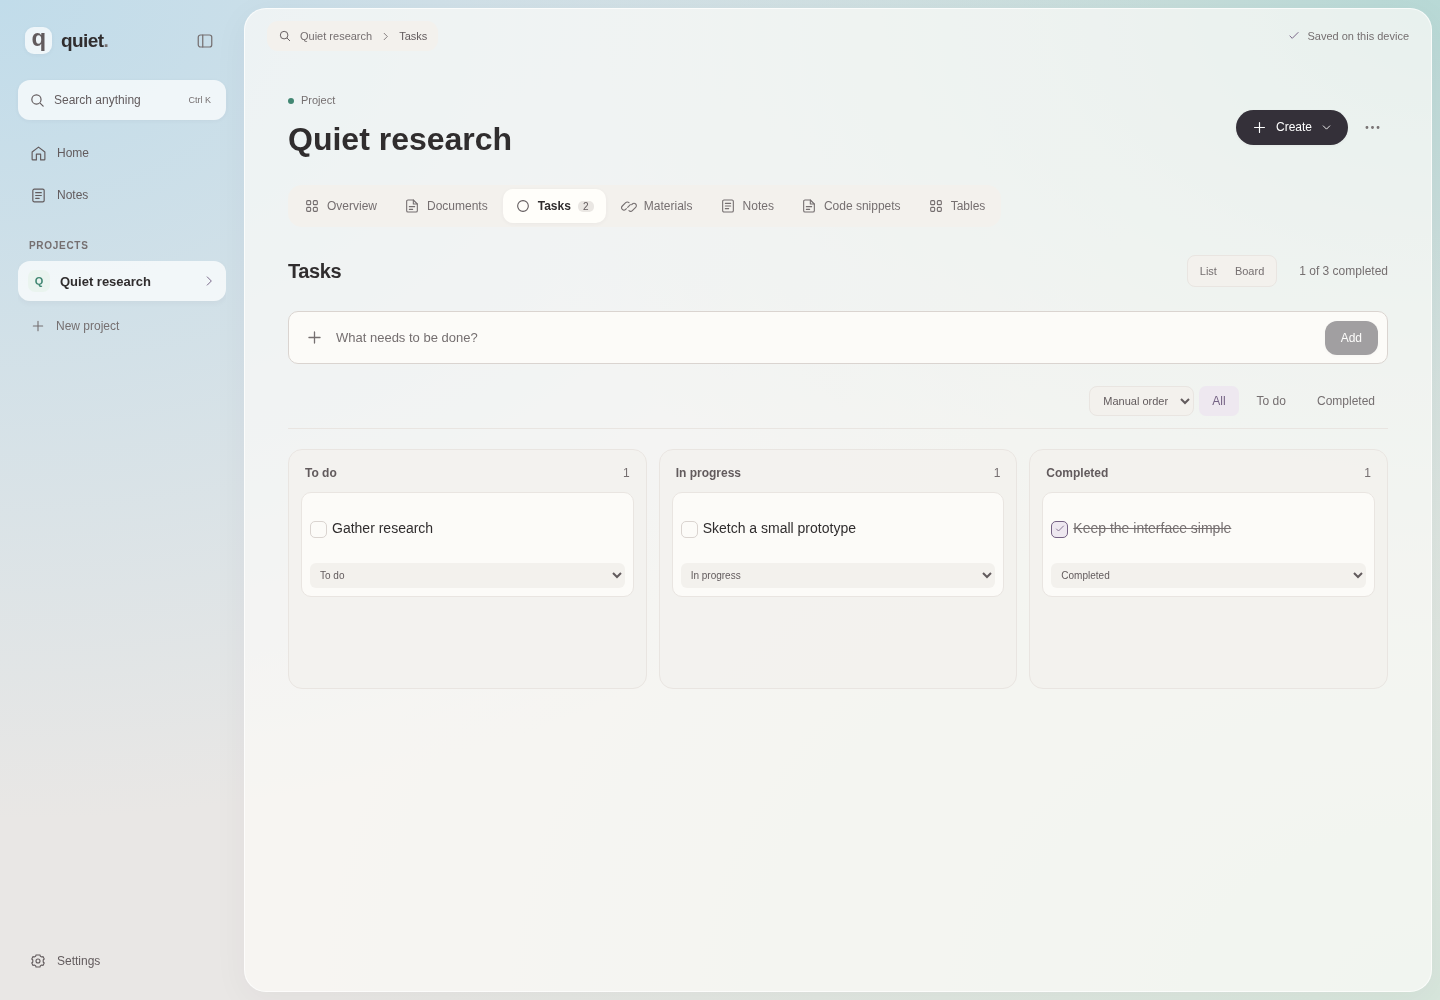
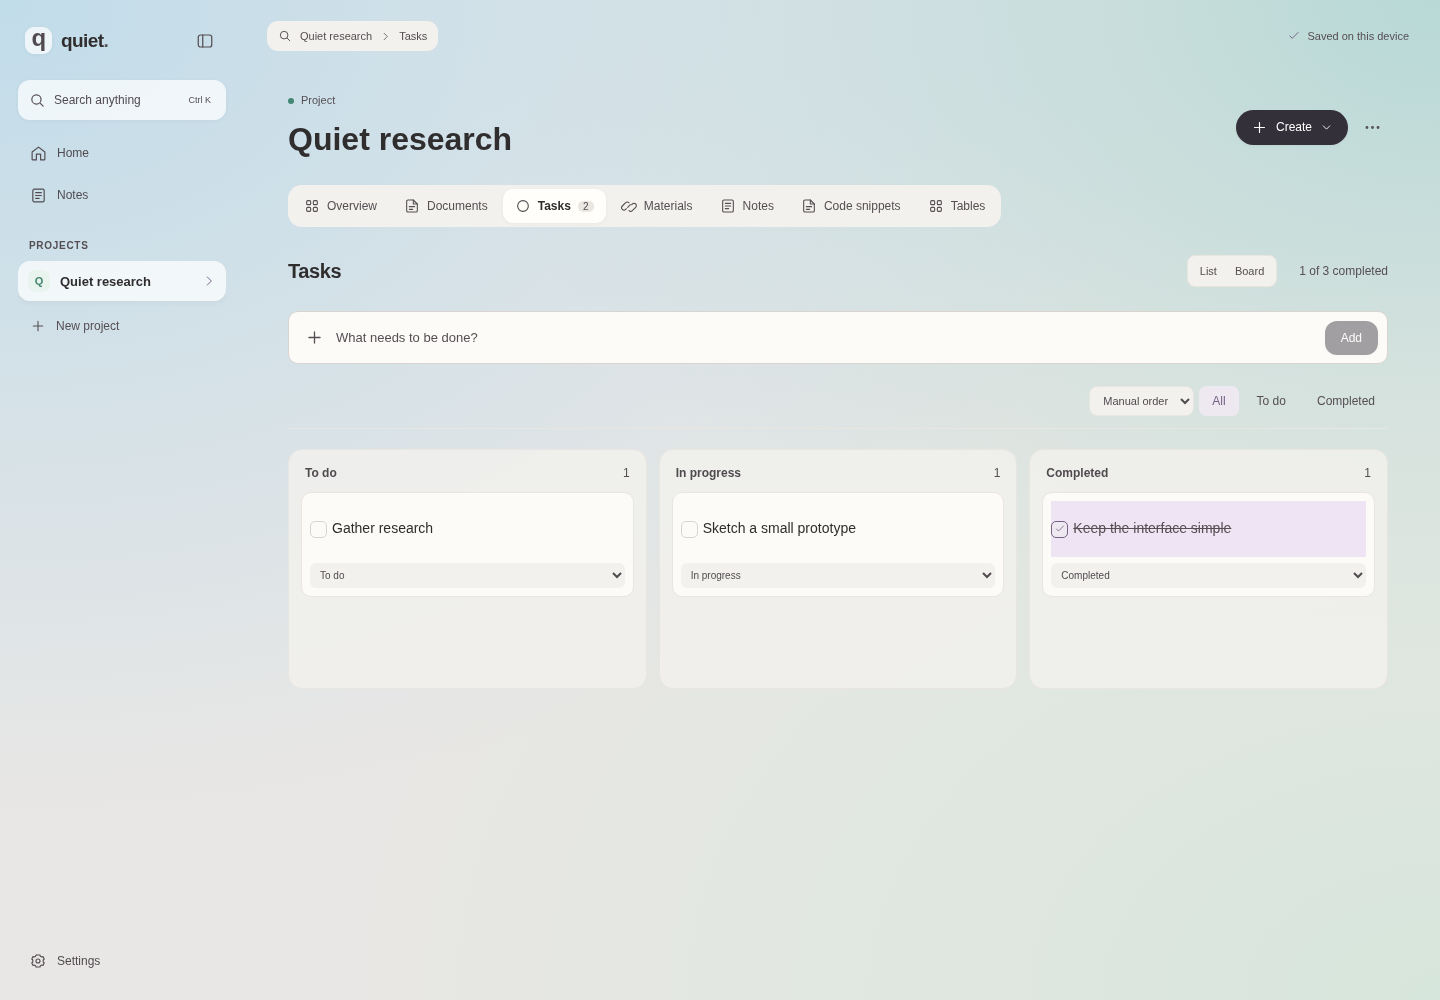
Use one uninterrupted window background with local reading surfaces

Changed region(s): [[0.1562, 0.0, 1.0, 0.496], [0.875, 0.868, 1.0, 0.992], [0.75, 0.527, 0.8438, 0.558]]

diff --git a/tests/background-canvas.spec.ts b/tests/background-canvas.spec.ts
@@ -1,0 +1,166 @@
+import { test, expect } from '@playwright/test';
+import type { Page } from '@playwright/test';
+
+async function settings(page: Page) {
+  if ((page.viewportSize()?.width ?? 1920) < 600)
+    await page.getByRole('button', { name: 'Open projects', exact: true }).click();
+  await page.getByRole('button', { name: 'Settings', exact: true }).click();
+}
+
+// Compare blank workspace pixels with the actual canvas underneath it. This catches
+// translucent fills, borders, shadows, and other layers that obscure the background.
+async function expectContinuousCanvas(page: Page) {
+  const size = page.viewportSize()!;
+  const frame = await page.locator('.workspace-area').boundingBox();
+  const points = [
+    { x: 1, y: 1 },
+    { x: size.width - 1, y: 1 },
+    { x: Math.ceil(frame!.x + 1), y: Math.floor(size.height * 0.8) },
+    { x: Math.floor(size.width * 0.55), y: Math.floor(size.height * 0.7) },
+    { x: Math.floor(size.width - 10), y: Math.floor(size.height * 0.8) },
+  ];
+  const visible = (await page.screenshot({ animations: 'disabled' })).toString('base64');
+  await page.locator('.workspace-area').evaluate((el) => {
+    el.style.visibility = 'hidden';
+  });
+  let canvas: string;
+  try {
+    canvas = (await page.screenshot({ animations: 'disabled' })).toString('base64');
+  } finally {
+    await page.locator('.workspace-area').evaluate((el) => el.style.removeProperty('visibility'));
+  }
+  const result = await page.evaluate(
+    async ({ visible, canvas, points }) => {
+      async function pixels(data: string) {
+        const blob = new Blob([Uint8Array.from(atob(data), (c) => c.charCodeAt(0))], {
+          type: 'image/png',
+        });
+        const image = await createImageBitmap(blob),
+          element = document.createElement('canvas');
+        element.width = image.width;
+        element.height = image.height;
+        const ctx = element.getContext('2d')!;
+        ctx.drawImage(image, 0, 0);
+        image.close();
+        return points.map((p) => [...ctx.getImageData(p.x, p.y, 1, 1).data]);
+      }
+      const label = document.createElement('span');
+      document.body.append(label);
+      const colors = ['--muted', '--text-secondary'].map((key) => {
+        label.style.color = `var(${key})`;
+        return getComputedStyle(label)
+          .color.match(/[\d.]+/g)!
+          .slice(0, 3)
+          .map(Number);
+      });
+      label.remove();
+      return { visible: await pixels(visible), canvas: await pixels(canvas), colors };
+    },
+    { visible, canvas: canvas!, points },
+  );
+  expect(result.visible).toEqual(result.canvas);
+  expect(new Set(result.canvas.map((pixel) => pixel.join(','))).size).toBeGreaterThan(1);
+  const lum = (rgb: number[]) =>
+    rgb
+      .slice(0, 3)
+      .map((v) => {
+        v /= 255;
+        return v <= 0.04045 ? v / 12.92 : ((v + 0.055) / 1.055) ** 2.4;
+      })
+      .reduce((sum, v, i) => sum + v * [0.2126, 0.7152, 0.0722][i], 0);
+  for (const color of result.colors)
+    for (const pixel of result.canvas) {
+      const a = lum(color),
+        b = lum(pixel);
+      expect(
+        (Math.max(a, b) + 0.05) / (Math.min(a, b) + 0.05),
+        JSON.stringify({ color, pixel }),
+      ).toBeGreaterThanOrEqual(4.5);
+    }
+}
+
+for (const theme of ['light', 'dark'] as const) {
+  test(`${theme}: all backgrounds cover Home continuously on desktop, compact rail and mobile`, async ({
+    page,
+  }) => {
+    test.setTimeout(90_000);
+    await page.addInitScript((theme) => {
+      localStorage.setItem('quiet.language', 'en');
+      localStorage.setItem('quiet.theme', theme);
+    }, theme);
+    await page.goto('/');
+    await settings(page);
+    await page
+      .getByRole('radio', { name: theme === 'dark' ? 'Dark' : 'Light', exact: true })
+      .check();
+    await page.getByRole('button', { name: 'Close', exact: true }).click();
+    for (const viewport of [
+      { width: 1920, height: 1008 },
+      { width: 390, height: 844 },
+    ]) {
+      await page.setViewportSize(viewport);
+      for (const background of ['Default', 'Dawn', 'Forest', 'Lavender', 'Ocean']) {
+        await settings(page);
+        await page.getByRole('radio', { name: background, exact: true }).check();
+        await page.getByRole('button', { name: 'Close', exact: true }).click();
+        await expectContinuousCanvas(page);
+        expect(await page.evaluate(() => document.documentElement.scrollWidth <= innerWidth)).toBe(
+          true,
+        );
+      }
+    }
+    await page.setViewportSize({ width: 1920, height: 1008 });
+    await page.getByRole('button', { name: 'Collapse sidebar', exact: true }).click();
+    await expectContinuousCanvas(page);
+  });
+}
+
+test('documents and notes retain readable local surfaces over the full background', async ({
+  page,
+}) => {
+  await page.addInitScript(() => localStorage.setItem('quiet.language', 'en'));
+  await page.goto('/');
+  await page.getByRole('button', { name: 'Create project', exact: true }).click();
+  await page.getByLabel('Project name', { exact: true }).fill('Reading');
+  await page
+    .getByRole('dialog')
+    .getByRole('button', { name: 'Create project', exact: true })
+    .click();
+  await page.getByRole('button', { name: /^Documents/ }).click();
+  await page.getByRole('button', { name: 'New document', exact: true }).click();
+  await page.getByRole('textbox', { name: 'Document content' }).fill('A readable document.');
+  const contrast = async (selector: string) =>
+    page.locator(selector).evaluate((el) => {
+      const s = getComputedStyle(el),
+        rgb = (value: string) =>
+          value
+            .match(/[\d.]+/g)!
+            .slice(0, 3)
+            .map(Number);
+      const lum = (color: number[]) =>
+        color
+          .map((v) => {
+            v /= 255;
+            return v <= 0.04045 ? v / 12.92 : ((v + 0.055) / 1.055) ** 2.4;
+          })
+          .reduce((sum, v, i) => sum + v * [0.2126, 0.7152, 0.0722][i], 0);
+      const a = lum(rgb(s.color)),
+        b = lum(rgb(s.backgroundColor));
+      return {
+        background: s.backgroundColor,
+        ratio: (Math.max(a, b) + 0.05) / (Math.min(a, b) + 0.05),
+      };
+    });
+  for (const theme of ['Light', 'Dark']) {
+    await settings(page);
+    await page.getByRole('radio', { name: theme, exact: true }).check();
+    await page.getByRole('button', { name: 'Close', exact: true }).click();
+    const style = await contrast('.rich-content');
+    expect(style.background).not.toBe('rgba(0, 0, 0, 0)');
+    expect(style.ratio).toBeGreaterThanOrEqual(4.5);
+  }
+  await page.locator('.sidebar-nav').getByRole('button', { name: 'Notes', exact: true }).click();
+  await page.getByRole('button', { name: 'New note', exact: true }).click();
+  await page.getByRole('textbox', { name: 'Note content' }).fill('A readable note.');
+  expect((await contrast('.plain-note textarea')).ratio).toBeGreaterThanOrEqual(4.5);
+});

diff --git a/src/styles.css b/src/styles.css
@@ -13,8 +13,8 @@
   --surface-hover: #eae7e3;
   --surface-raised: #fffefa;
   --text: #302d2e;
-  --text-secondary: #625b5d;
-  --muted: #756f70;
+  --text-secondary: #514b50;
+  --muted: #554e53;
   --line: #e9e5e1;
   --line-strong: #dad4d0;
   --accent: #756284;
@@ -51,8 +51,8 @@
   --surface-hover: #37343d;
   --surface-raised: #2a282f;
   --text: #eee9e4;
-  --text-secondary: #c4bdba;
-  --muted: #aca3a2;
+  --text-secondary: #d0c6cd;
+  --muted: #bcb2b8;
   --line: #36323a;
   --line-strong: #48414b;
   --accent: #c6afd5;
@@ -424,10 +424,9 @@ kbd {
   min-width: 0;
   width: calc(100% - var(--sidebar-width) - 32px);
   min-height: calc(100dvh - 16px);
-  border: 1px solid var(--tab-surface);
+  border: 1px solid transparent;
   border-radius: 22px;
-  background: var(--surface);
-  box-shadow: 0 8px 35px var(--shadow);
+  background: transparent;
   overflow: clip;
   transition:
     margin-left 0.16s ease,
@@ -2885,10 +2884,6 @@ kbd {
   outline: none;
 }
 
-/* The canvas spans the window; translucent surfaces reveal it without live blur. */
-.workspace-area {
-  background: color-mix(in srgb, var(--surface) 70%, transparent);
-}
 .module-picker {
   border: 0;
   padding: 0;
@@ -3259,4 +3254,18 @@ kbd {
 }
 .board-card .task-stage {
   display: none;
+}
+
+/* One canvas behind the whole layout; only reading/editing surfaces get a fill. */
+.rich-content,
+.markdown-editor,
+.markdown,
+.plain-note textarea {
+  background: var(--surface);
+  border-radius: 12px;
+  padding: 16px;
+}
+.sheet-scroll,
+.snippet-code {
+  background: var(--surface);
 }

diff --git a/tests/project-modules.spec.ts b/tests/project-modules.spec.ts
@@ -233,7 +233,5 @@ test('new modules, board and full-window backgrounds fit mobile and both themes'
   await page.getByRole('radio', { name: 'Ocean', exact: true }).check();
   await page.getByRole('radio', { name: 'Dark', exact: true }).check();
   await page.getByRole('button', { name: 'Close', exact: true }).click();
-  expect(
-    await page.locator('.workspace-area').evaluate((el) => getComputedStyle(el).backgroundColor),
-  ).toMatch(/0\.7|70%/);
+  expect(await page.evaluate(() => document.documentElement.scrollWidth <= innerWidth)).toBe(true);
 });

diff --git a/README.md b/README.md
@@ -45,7 +45,7 @@ _Приклад із власним вмістом для демонстраці
 
 Файли можна додавати групою або перетягувати у відкритий проєкт із модулем матеріалів. Вибрані файли завантажуються разом у ZIP із повними оригіналами; однакові назви отримують номери. Межа однієї ZIP-вибірки — 100 МБ, щоб обмежити тимчасове використання пам’яті. Архів збирається окремим Worker. Групове видалення потребує підтвердження та підтримує Undo. Окреме завантаження оригіналів залишається доступним.
 
-Фон розтягнутий на все вікно та видимий через злегка прозору робочу поверхню. Нових залежностей у 0.9 немає.
+Фон єдиний на все вікно: у 0.9.1 прибрано заливку, рамку й тінь великої робочої області. Окремі непрозорі поверхні залишаються під картками, текстом редакторів і таблицями. Контраст другорядних написів підсилено для всіх фонів у світлій і темній темах. Нових залежностей немає.
 
 ## Щоденна робота
 
